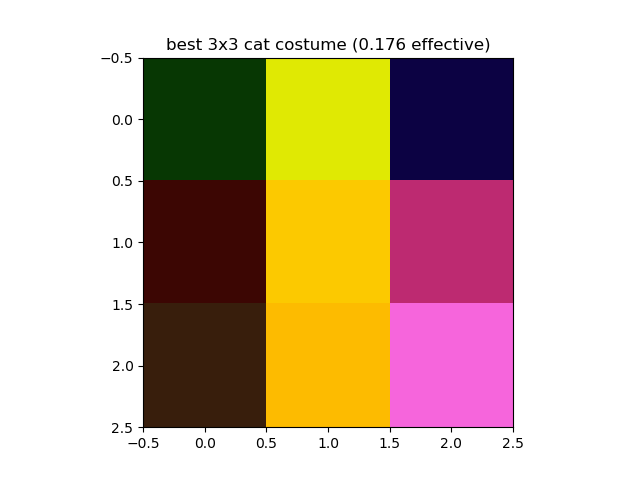
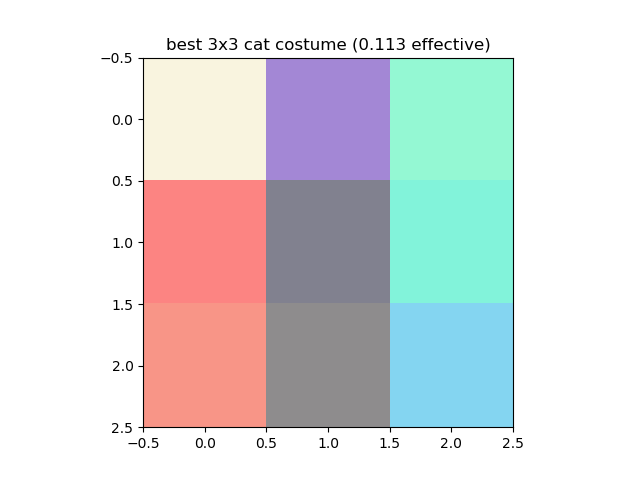
gitkraken was slow to notice some changes, 2nd attempt

diff --git a/cat_costume_demo.py b/cat_costume_demo.py
@@ -69,6 +69,9 @@ noise = np.random.normal(0, 1, (1, 100))
 
 # generate cat image
 cat_img = gmodel.predict(noise)[0]
+if (0) : # make it look more washed out like the dataset images
+    cat_img = cat_img * 0.5 # reduce contrast
+    cat_img += 0.5 # increase brightness
 plot(cat_img,'essence of cat to be used as a cat costume')
 
 
@@ -79,7 +82,7 @@ images = len(x_test)
 x = np.copy(x_test[0:images])
 y = y_test[0:images]
 
-# pair down test images to only things the detector thought were non-cats, and therefore in need of a costume
+# pare down test images to only things the detector thought were non-cats, and therefore in need of a costume
 y_pred = model.predict(x, verbose=1)
 non_cat_idx = []
 for i in range(images) :
